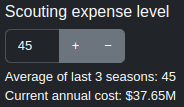
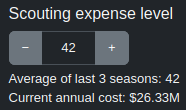
Blog post

diff --git a/src/posts/2023-06-14-finances-revamp.md b/src/posts/2023-06-14-finances-revamp.md
@@ -1,13 +1,11 @@
 ---
 layout: post
-title: Finances revamp (beta)
-date: 2023-06-10
+title: Finances revamp
+date: 2023-06-14
 tags:
   - post
   - Finances
 ---
-
-**This is live only on the [Basketball GM beta site](https://beta.basketball-gm.com/) to collect some [feedback](https://zengm.com/contact/).**
 
 The finances system in Basketball GM (and the other games) has been basically unchanged for a long time. I think there are various parts of it that don't really make much sense, or aren't very fun, or are exploitable, or are confusing due to poor UI. So I set out to fix all of those problems at once. The end result is not actually that different in terms of gameplay, but I think it does make things better in all of the aforementioned areas.
 
@@ -107,7 +105,7 @@ Then after the first season, the AI teams will be free to change their expense l
 
 ## Multiplayer leagues
 
-I admit I don't pay too much attention to people doing multiplayer leauges. I love you guys, but my games are primarily single-player because personally I don't really enjoy multiplayer games! But I do want everything to work well for multiplayer leagues, so [please let me know](https://zengm.com/contact/) if you have any thoughts.
+I admit I don't pay too much attention to people doing multiplayer leauges. I love you guys, but my games are primarily single-player because personally I don't really enjoy multiplayer games! But I do want everything to work well for multiplayer leagues, so [please let me know](/contact/) if you have any thoughts.
 
 My understanding is that most multiplayer leagues just set everyone to the same expenses, so nobody gains an advantage there and they don't have to micromanage eBay-style bidding wars for certain ranks.
 
@@ -129,4 +127,4 @@ But in the new system, that exploit is no longer possible. When a new league is 
 
 ## Feedback?
 
-This is a long complicated blog post for a somewhat mundane feature, so thank you for reading all the way down here! Feedback is welcome at [all the normal places](https://zengm.com/contact/). Depending on how that goes, we'll see how long this remains in beta before being officially released.
+This is a long complicated blog post for a somewhat mundane feature, so thank you for reading all the way down here! Feedback is welcome at [all the normal places](/contact/).
